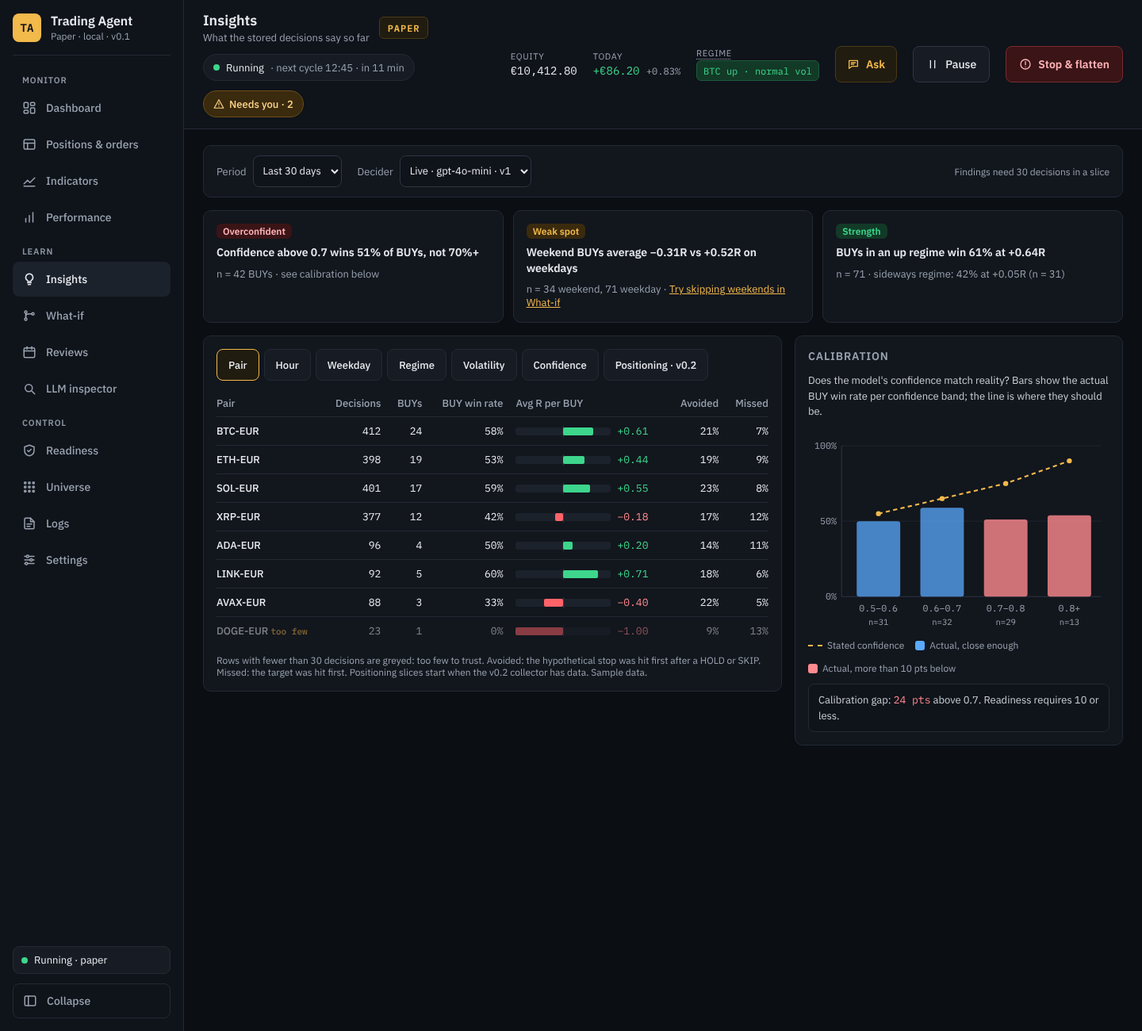
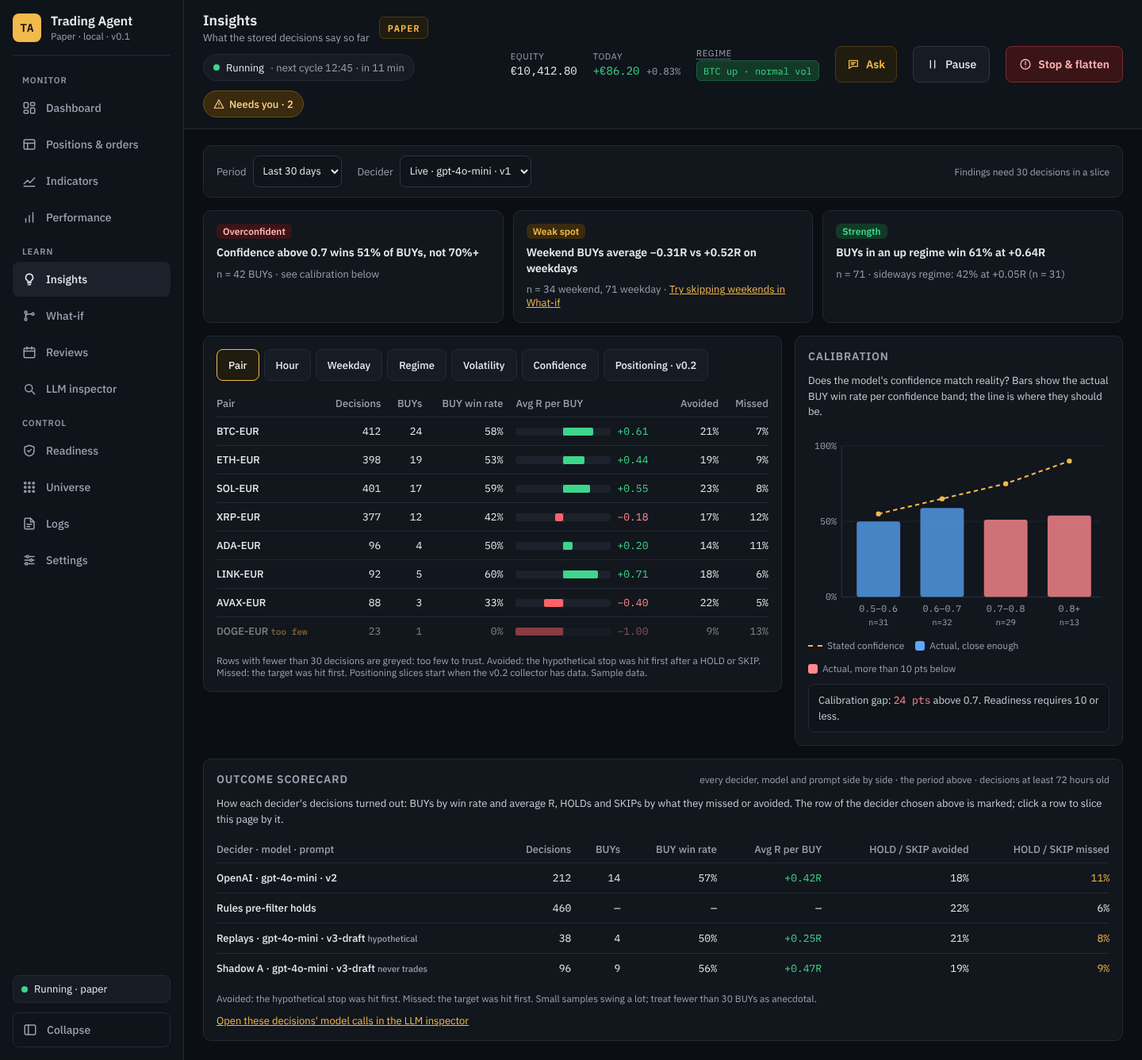
[043] Inspector follows Logs; scorecard to Insights
Marc's answers to the kickoff's two open questions (25 Nov). A call that
is an error on Logs needs him until its problem is reviewed, on both
screens. The outcome scorecard moves from the LLM inspector to Insights.

Claude-Session: https://claude.ai/code/session_01VNyDAExbeim9r1ewDQ9CMG

diff --git a/design/screens/Inspector.dc.html b/design/screens/Inspector.dc.html
@@ -149,18 +149,18 @@ summary{cursor:pointer}
   </div>
   <div style="display: flex; flex-direction: column">
     <div style="display: flex; justify-content: space-between; align-items: center; gap: 10px; flex-wrap: wrap; padding-bottom: 8px">
-      <span style="font-size: 12px; color: #98A2AF">Top reasons · most frequent first</span>
-      <span style="display: inline-flex; gap: 6px; align-items: center; flex-wrap: wrap; font-size: 12px; color: #98A2AF">Of 8 warnings and errors: <span style="display: inline-flex; align-items: center; height: 22px; padding: 0 7px; border-radius: 5px; background: #171C24; color: #C9CFD6; border: 1px solid #2E3643; font-size: 11px; font-weight: 500; white-space: nowrap">0 need you</span> <span style="display: inline-flex; align-items: center; height: 22px; padding: 0 7px; border-radius: 5px; background: #3A2A0E; color: #FFD58A; border: 1px solid #6B4E17; font-size: 11px; font-weight: 500; white-space: nowrap">2 to watch</span> <span style="display: inline-flex; align-items: center; height: 22px; padding: 0 7px; border-radius: 5px; background: #123A27; color: #3DD68C; border: 1px solid #1E5A3E; font-size: 11px; font-weight: 500; white-space: nowrap">6 nothing to do</span></span>
+      <span style="font-size: 12px; color: #98A2AF">Top reasons · what needs you first, then most frequent</span>
+      <span style="display: inline-flex; gap: 6px; align-items: center; flex-wrap: wrap; font-size: 12px; color: #98A2AF">Of 8 warnings and errors: <span style="display: inline-flex; align-items: center; height: 22px; padding: 0 7px; border-radius: 5px; background: #3A1416; color: #FFB3B6; border: 1px solid #7A2A2E; font-size: 11px; font-weight: 500; white-space: nowrap">2 need you</span> <span style="display: inline-flex; align-items: center; height: 22px; padding: 0 7px; border-radius: 5px; background: #171C24; color: #C9CFD6; border: 1px solid #2E3643; font-size: 11px; font-weight: 500; white-space: nowrap">0 to watch</span> <span style="display: inline-flex; align-items: center; height: 22px; padding: 0 7px; border-radius: 5px; background: #123A27; color: #3DD68C; border: 1px solid #1E5A3E; font-size: 11px; font-weight: 500; white-space: nowrap">6 nothing to do</span></span>
     </div>
+    <a href="#" class="ta-row" title="Show these calls" style="display: grid; grid-template-columns: 34px minmax(0, 1fr) auto; gap: 4px 10px; align-items: center; padding: 9px 6px; margin: 0 -6px; border-top: 1px solid #232A35; border-radius: 6px; color: #E7EAEE; text-decoration: none">
+  <span style="font-family: 'IBM Plex Mono', monospace; font-size: 13px; color: #C9CFD6">2 ×</span>
+  <span style="font-size: 13px; line-height: 1.45; min-width: 0"><b style="font-weight: 600">timeout</b> <span style="color: #98A2AF">· BTC-EUR and ETH-EUR at 09:30 and 09:15 · Rules answered both cycles</span></span>
+  <span title="An error on Logs that isn't reviewed yet. Review it there or in the call." style="display: inline-flex; align-items: center; height: 22px; padding: 0 7px; border-radius: 5px; background: #3A1416; color: #FFB3B6; border: 1px solid #7A2A2E; font-size: 11px; font-weight: 500; white-space: nowrap">Needs you</span>
+</a>
     <a href="#" class="ta-row" title="Show these calls" style="display: grid; grid-template-columns: 34px minmax(0, 1fr) auto; gap: 4px 10px; align-items: center; padding: 9px 6px; margin: 0 -6px; border-top: 1px solid #232A35; border-radius: 6px; color: #E7EAEE; text-decoration: none">
   <span style="font-family: 'IBM Plex Mono', monospace; font-size: 13px; color: #C9CFD6">3 ×</span>
   <span style="font-size: 13px; line-height: 1.45; min-width: 0"><b style="font-weight: 600">changed by code</b> <span style="color: #98A2AF">· gates and checks doing their job · cost gate 2, reward to risk 1</span></span>
   <span title="A gate or post-check changed the model's action. That is what they are for." style="display: inline-flex; align-items: center; height: 22px; padding: 0 7px; border-radius: 5px; background: #123A27; color: #3DD68C; border: 1px solid #1E5A3E; font-size: 11px; font-weight: 500; white-space: nowrap">Nothing to do</span>
-</a>
-    <a href="#" class="ta-row" title="Show these calls" style="display: grid; grid-template-columns: 34px minmax(0, 1fr) auto; gap: 4px 10px; align-items: center; padding: 9px 6px; margin: 0 -6px; border-top: 1px solid #232A35; border-radius: 6px; color: #E7EAEE; text-decoration: none">
-  <span style="font-family: 'IBM Plex Mono', monospace; font-size: 13px; color: #C9CFD6">2 ×</span>
-  <span style="font-size: 13px; line-height: 1.45; min-width: 0"><b style="font-weight: 600">timeout</b> <span style="color: #98A2AF">· BTC-EUR and ETH-EUR at 09:30 and 09:15 · Rules answered both cycles</span></span>
-  <span title="A second timeout within 2 cycles. A third cycle in a row would need you." style="display: inline-flex; align-items: center; height: 22px; padding: 0 7px; border-radius: 5px; background: #3A2A0E; color: #FFD58A; border: 1px solid #6B4E17; font-size: 11px; font-weight: 500; white-space: nowrap">Keep an eye on it</span>
 </a>
     <a href="#" class="ta-row" title="Show these calls" style="display: grid; grid-template-columns: 34px minmax(0, 1fr) auto; gap: 4px 10px; align-items: center; padding: 9px 6px; margin: 0 -6px; border-top: 1px solid #232A35; border-radius: 6px; color: #E7EAEE; text-decoration: none">
   <span style="font-family: 'IBM Plex Mono', monospace; font-size: 13px; color: #C9CFD6">1 ×</span>
@@ -179,75 +179,6 @@ summary{cursor:pointer}
 </a>
   </div>
 </section>
-<details style="background: #12161D; border: 1px solid #232A35; border-radius: 10px; padding: 16px 20px; box-sizing: border-box; min-width: 0; flex: 1 1 100%; padding: 0">
-  <summary style="display: flex; flex-wrap: wrap; align-items: center; gap: 6px 12px; min-height: 48px; padding: 6px 20px; box-sizing: border-box">
-    <span style="margin: 0; font-size: 13px; font-weight: 600; letter-spacing: 0.06em; text-transform: uppercase; color: #C9CFD6">Outcome scorecard</span>
-    <span style="font-size: 13px; color: #C9CFD6">7 days · OpenAI gpt-4o-mini v2: 14 BUYs, 57% won, <span style="font-family: 'IBM Plex Mono', monospace; color: #3DD68C">+0.42R</span> each · Shadow A <span style="font-family: 'IBM Plex Mono', monospace; color: #3DD68C">+0.47R</span></span>
-    <span style="margin-left: auto; font-size: 13px; color: #F2B94B">Show the table</span>
-  </summary>
-  <div style="padding: 0 20px 16px; display: flex; flex-direction: column; gap: 10px">
-    <div role="group" aria-label="Scorecard period" style="display: inline-flex; align-self: flex-start; padding: 3px; background: #171C24; border: 1px solid #232A35; border-radius: 8px">
-      <button type="button" aria-pressed="false" style="height: 32px; padding: 0 12px; border: 0; border-radius: 6px; background: transparent; color: #98A2AF; font-size: 13px; cursor: pointer">24h</button>
-      <button type="button" aria-pressed="true" style="height: 32px; padding: 0 12px; border: 0; border-radius: 6px; background: #2E3643; color: #E7EAEE; font-size: 13px; cursor: pointer">7 days</button>
-      <button type="button" aria-pressed="false" style="height: 32px; padding: 0 12px; border: 0; border-radius: 6px; background: transparent; color: #98A2AF; font-size: 13px; cursor: pointer">30 days</button>
-    </div>
-    <div style="overflow-x: auto">
-        <div style="overflow-x: auto; max-width: 100%; min-width: 0"><table style="width: 100%; min-width: 760px; border-collapse: collapse; font-size: 13px">
-          <thead>
-            <tr style="color: #98A2AF; text-align: left">
-              <th style="padding: 8px 8px 8px 0; font-weight: 500">Decider · model · prompt</th>
-              <th style="padding: 8px; font-weight: 500; text-align: right">Decisions</th>
-              <th style="padding: 8px; font-weight: 500; text-align: right">BUYs</th>
-              <th style="padding: 8px; font-weight: 500; text-align: right">BUY win rate</th>
-              <th style="padding: 8px; font-weight: 500; text-align: right">Avg R per BUY</th>
-              <th style="padding: 8px; font-weight: 500; text-align: right">HOLD / SKIP avoided</th>
-              <th style="padding: 8px 0 8px 8px; font-weight: 500; text-align: right">HOLD / SKIP missed</th>
-            </tr>
-          </thead>
-          <tbody style="font-family: 'IBM Plex Mono', monospace">
-            <tr style="border-top: 1px solid #232A35">
-              <td style="padding: 10px 8px 10px 0; font-family: 'IBM Plex Sans', sans-serif; font-weight: 500">OpenAI · gpt-4o-mini · v2</td>
-              <td style="padding: 10px 8px; text-align: right">212</td>
-              <td style="padding: 10px 8px; text-align: right">14</td>
-              <td style="padding: 10px 8px; text-align: right">57%</td>
-              <td style="padding: 10px 8px; text-align: right; color: #3DD68C">+0.42R</td>
-              <td style="padding: 10px 8px; text-align: right">18%</td>
-              <td style="padding: 10px 0 10px 8px; text-align: right; color: #F2B94B">11%</td>
-            </tr>
-            <tr style="border-top: 1px solid #232A35">
-              <td style="padding: 10px 8px 10px 0; font-family: 'IBM Plex Sans', sans-serif; font-weight: 500">Rules pre-filter holds</td>
-              <td style="padding: 10px 8px; text-align: right">460</td>
-              <td style="padding: 10px 8px; text-align: right">—</td>
-              <td style="padding: 10px 8px; text-align: right">—</td>
-              <td style="padding: 10px 8px; text-align: right">—</td>
-              <td style="padding: 10px 8px; text-align: right">22%</td>
-              <td style="padding: 10px 0 10px 8px; text-align: right">6%</td>
-            </tr>
-            <tr style="border-top: 1px solid #232A35">
-              <td style="padding: 10px 8px 10px 0; font-family: 'IBM Plex Sans', sans-serif; font-weight: 500">Replays · gpt-4o-mini · v3-draft <span style="font-size: 11px; color: #98A2AF">hypothetical</span></td>
-              <td style="padding: 10px 8px; text-align: right">38</td>
-              <td style="padding: 10px 8px; text-align: right">4</td>
-              <td style="padding: 10px 8px; text-align: right">50%</td>
-              <td style="padding: 10px 8px; text-align: right; color: #3DD68C">+0.25R</td>
-              <td style="padding: 10px 8px; text-align: right">21%</td>
-              <td style="padding: 10px 0 10px 8px; text-align: right; color: #F2B94B">8%</td>
-            </tr>
-            <tr style="border-top: 1px solid #232A35">
-              <td style="padding: 10px 8px 10px 0; font-family: 'IBM Plex Sans', sans-serif; font-weight: 500">Shadow A · gpt-4o-mini · v3-draft <span style="font-size: 11px; color: #98A2AF">never trades</span></td>
-              <td style="padding: 10px 8px; text-align: right">96</td>
-              <td style="padding: 10px 8px; text-align: right">9</td>
-              <td style="padding: 10px 8px; text-align: right">56%</td>
-              <td style="padding: 10px 8px; text-align: right; color: #3DD68C">+0.47R</td>
-              <td style="padding: 10px 8px; text-align: right">19%</td>
-              <td style="padding: 10px 0 10px 8px; text-align: right; color: #F2B94B">9%</td>
-            </tr>
-          </tbody>
-        </table></div>
-      </div>
-      <p style="margin: 0; font-size: 12px; color: #98A2AF">Avoided: the hypothetical stop was hit first. Missed: the target was hit first. Small samples swing a lot; treat fewer than 30 BUYs as anecdotal.</p>
-    
-  </div>
-</details>
 <section aria-label="Calls" style="background: #12161D; border: 1px solid #232A35; border-radius: 10px; padding: 16px 20px; box-sizing: border-box; min-width: 0; padding: 0; flex: 1 1 340px; max-width: 420px; display: flex; flex-direction: column; overflow: hidden" class="in-list">
   <div style="display: flex; justify-content: space-between; align-items: center; gap: 10px; padding: 12px 12px 10px"><h2 style="margin: 0; font-size: 13px; font-weight: 600; letter-spacing: 0.06em; text-transform: uppercase; color: #C9CFD6">Calls</h2><button type="button" title="Switch to oldest first" style="height: 36px; padding: 0 12px; display: inline-flex; align-items: center; justify-content: center; gap: 6px; border-radius: 6px; border: 1px solid #2E3643; background: #171C24; color: #E7EAEE; font-size: 13px; font-weight: 500; text-decoration: none; white-space: nowrap; cursor: pointer; height: 28px; padding: 0 8px; font-size: 12px; color: #98A2AF">newest first ↓</button></div>
   <div style="position: sticky; top: 0; display: flex; justify-content: space-between; gap: 10px; padding: 8px 12px; background: #171C24; border-bottom: 1px solid #232A35; font-size: 11px"><span style="font-weight: 600; letter-spacing: 0.06em; text-transform: uppercase; color: #C9CFD6">Tue 13 Oct · today</span><span style="color: #98A2AF">22 calls · 4 warnings · 2 errors</span></div>
@@ -367,7 +298,7 @@ summary{cursor:pointer}
   </div>
   <div style="flex: 1 1 260px; min-width: 0; display: flex; flex-direction: column; gap: 8px">
     <h2 style="margin: 0; font-size: 13px; font-weight: 600; letter-spacing: 0.06em; text-transform: uppercase; color: #C9CFD6">Outcome <span style="font-weight: 400; text-transform: none; letter-spacing: 0; color: #98A2AF">· judges the result</span></h2>
-    <div style="font-size: 13px; line-height: 1.6"><span style="font-family: 'IBM Plex Mono', monospace">4h · 24h · 72h</span> pending until Fri 16 Oct 12:30<br><span style="color: #98A2AF">so far best</span> <span style="font-family: 'IBM Plex Mono', monospace; color: #3DD68C">+0.6R</span><span style="color: #98A2AF">, worst</span> <span style="font-family: 'IBM Plex Mono', monospace; color: #FF8A8F">−0.1R</span></div>
+    <div style="font-size: 13px; line-height: 1.6"><span style="font-family: 'IBM Plex Mono', monospace">4h · 24h · 72h</span> pending until Fri 16 Oct 12:30<br><span style="color: #98A2AF">so far best</span> <span style="font-family: 'IBM Plex Mono', monospace; color: #3DD68C">+0.6R</span><span style="color: #98A2AF">, worst</span> <span style="font-family: 'IBM Plex Mono', monospace; color: #FF8A8F">−0.1R</span><br><a href="Insights.dc.html" style="color: #F2B94B">Scorecard per model and prompt on Insights</a></div>
   </div>
 </section>
 <section aria-label="Input" style="background: #12161D; border: 1px solid #232A35; border-radius: 10px; padding: 16px 20px; box-sizing: border-box; min-width: 0; display: flex; flex-direction: column; gap: 10px">
@@ -412,9 +343,9 @@ summary{cursor:pointer}
     <span style="flex: 1 1 100%; font-size: 13px; color: #FFD9DB">Nothing was traded on a guess. The pair was decided by the Rules engine for this cycle.</span>
   </div>
   <div style="border: 1px solid #232A35; border-left: 3px solid #FF6B70; border-radius: 8px; padding: 12px 14px; display: flex; flex-direction: column; gap: 10px; background: #0F131A">
-  <div style="display: flex; justify-content: space-between; align-items: center; gap: 10px; flex-wrap: wrap"><span style="font-size: 14px; font-weight: 600">What happened · Timeout <span style="font-family: 'IBM Plex Mono', monospace; font-size: 11px; font-weight: 400; color: #98A2AF">timeout</span></span><span title="A second timeout within 2 cycles (ETH-EUR 09:15). A third cycle in a row would need you." style="display: inline-flex; align-items: center; height: 22px; padding: 0 7px; border-radius: 5px; background: #3A2A0E; color: #FFD58A; border: 1px solid #6B4E17; font-size: 11px; font-weight: 500; white-space: nowrap">Keep an eye on it</span></div>
-  <div class="in-kv" style="display: grid; grid-template-columns: 110px minmax(0, 1fr); gap: 8px 14px"><span style="font-size: 12px; color: #98A2AF">What it means</span><span style="font-size: 13px; line-height: 1.5">OpenAI gave no answer within the timeout, and the one retry timed out too. The Rules engine decided this pair for the cycle.</span><span style="font-size: 12px; color: #98A2AF">Why here</span><span style="font-size: 13px; line-height: 1.5">Attempt 1 timed out after 30 s at 09:30:31, the retry at 09:31:01. ETH-EUR timed out the cycle before.</span><span style="font-size: 12px; color: #98A2AF">What to do</span><span style="font-size: 13px; line-height: 1.5">Once in a while: nothing. Now: check status.openai.com. If the next cycle fails too, this becomes Needs you; Logs shows whether the network or the provider fails.</span></div>
-  <div style="display: flex; flex-wrap: wrap; gap: 8px"><a href="Logs.dc.html" style="height: 36px; padding: 0 12px; display: inline-flex; align-items: center; justify-content: center; gap: 6px; border-radius: 6px; border: 1px solid #2E3643; background: #171C24; color: #E7EAEE; font-size: 13px; font-weight: 500; text-decoration: none; white-space: nowrap; cursor: pointer">Logs for this call · e-3f9a21c0</a><a href="#" style="height: 36px; padding: 0 12px; display: inline-flex; align-items: center; justify-content: center; gap: 6px; border-radius: 6px; border: 1px solid #2E3643; background: #171C24; color: #E7EAEE; font-size: 13px; font-weight: 500; text-decoration: none; white-space: nowrap; cursor: pointer">Calls with this reason</a><a href="#" style="height: 36px; padding: 0 12px; display: inline-flex; align-items: center; justify-content: center; gap: 6px; border-radius: 6px; border: 1px solid #2E3643; background: #171C24; color: #E7EAEE; font-size: 13px; font-weight: 500; text-decoration: none; white-space: nowrap; cursor: pointer">status.openai.com</a></div>
+  <div style="display: flex; justify-content: space-between; align-items: center; gap: 10px; flex-wrap: wrap"><span style="font-size: 14px; font-weight: 600">What happened · Timeout <span style="font-family: 'IBM Plex Mono', monospace; font-size: 11px; font-weight: 400; color: #98A2AF">timeout</span></span><span title="An error on Logs that isn't reviewed yet: “Decision call timed out after its retry”, 2 times." style="display: inline-flex; align-items: center; height: 22px; padding: 0 7px; border-radius: 5px; background: #3A1416; color: #FFB3B6; border: 1px solid #7A2A2E; font-size: 11px; font-weight: 500; white-space: nowrap">Needs you</span></div>
+  <div class="in-kv" style="display: grid; grid-template-columns: 110px minmax(0, 1fr); gap: 8px 14px"><span style="font-size: 12px; color: #98A2AF">What it means</span><span style="font-size: 13px; line-height: 1.5">OpenAI gave no answer within the timeout, and the one retry timed out too. The Rules engine decided this pair for the cycle.</span><span style="font-size: 12px; color: #98A2AF">Why here</span><span style="font-size: 13px; line-height: 1.5">Attempt 1 timed out after 30 s at 09:30:31, the retry at 09:31:01. ETH-EUR timed out the cycle before.</span><span style="font-size: 12px; color: #98A2AF">What to do</span><span style="font-size: 13px; line-height: 1.5">Check status.openai.com; Logs shows whether the network or the provider failed. Then review the problem: Expected or Fixed, with a note. That clears it here, on Logs and in Needs you.</span></div>
+  <div style="display: flex; flex-wrap: wrap; gap: 8px"><a href="#" style="height: 36px; padding: 0 12px; display: inline-flex; align-items: center; justify-content: center; gap: 6px; border-radius: 6px; border: 1px solid #2E3643; background: #171C24; color: #E7EAEE; font-size: 13px; font-weight: 500; text-decoration: none; white-space: nowrap; cursor: pointer">Review…</a><a href="Logs.dc.html" style="height: 36px; padding: 0 12px; display: inline-flex; align-items: center; justify-content: center; gap: 6px; border-radius: 6px; border: 1px solid #2E3643; background: #171C24; color: #E7EAEE; font-size: 13px; font-weight: 500; text-decoration: none; white-space: nowrap; cursor: pointer">Logs for this call · e-3f9a21c0</a><a href="#" style="height: 36px; padding: 0 12px; display: inline-flex; align-items: center; justify-content: center; gap: 6px; border-radius: 6px; border: 1px solid #2E3643; background: #171C24; color: #E7EAEE; font-size: 13px; font-weight: 500; text-decoration: none; white-space: nowrap; cursor: pointer">Calls with this reason</a><a href="#" style="height: 36px; padding: 0 12px; display: inline-flex; align-items: center; justify-content: center; gap: 6px; border-radius: 6px; border: 1px solid #2E3643; background: #171C24; color: #E7EAEE; font-size: 13px; font-weight: 500; text-decoration: none; white-space: nowrap; cursor: pointer">status.openai.com</a></div>
 </div>
   <div class="in-tiles" style="display: flex; flex-wrap: wrap; gap: 8px">
     <div style="flex: 1 1 130px; min-width: 0; display: flex; flex-direction: column; gap: 3px; padding: 10px 12px; background: #0F131A; border: 1px solid #232A35; border-radius: 8px"><span style="font-size: 11px; color: #98A2AF">Source</span><span style="font-family: 'IBM Plex Mono', monospace; font-size: 13px; overflow-wrap: anywhere">Live decision</span></div><div style="flex: 1 1 130px; min-width: 0; display: flex; flex-direction: column; gap: 3px; padding: 10px 12px; background: #0F131A; border: 1px solid #232A35; border-radius: 8px"><span style="font-size: 11px; color: #98A2AF">Model</span><span style="font-family: 'IBM Plex Mono', monospace; font-size: 13px; overflow-wrap: anywhere">gpt-4o-mini</span><span style="font-family: 'IBM Plex Mono', monospace; font-size: 11px; color: #98A2AF">structured output</span></div><div style="flex: 1 1 130px; min-width: 0; display: flex; flex-direction: column; gap: 3px; padding: 10px 12px; background: #0F131A; border: 1px solid #232A35; border-radius: 8px"><span style="font-size: 11px; color: #98A2AF">Prompt</span><span style="font-family: 'IBM Plex Mono', monospace; font-size: 13px; overflow-wrap: anywhere">decision.v2</span><span style="font-family: 'IBM Plex Mono', monospace; font-size: 11px; color: #98A2AF">brief v2</span></div><div style="flex: 1 1 130px; min-width: 0; display: flex; flex-direction: column; gap: 3px; padding: 10px 12px; background: #0F131A; border: 1px solid #232A35; border-radius: 8px"><span style="font-size: 11px; color: #98A2AF">Tokens in / out</span><span style="font-family: 'IBM Plex Mono', monospace; font-size: 13px; overflow-wrap: anywhere">not recorded</span><span style="font-family: 'IBM Plex Mono', monospace; font-size: 11px; color: #98A2AF">no response</span></div><div style="flex: 1 1 130px; min-width: 0; display: flex; flex-direction: column; gap: 3px; padding: 10px 12px; background: #0F131A; border: 1px solid #232A35; border-radius: 8px"><span style="font-size: 11px; color: #98A2AF">Cost</span><span style="font-family: 'IBM Plex Mono', monospace; font-size: 13px; overflow-wrap: anywhere">€0.0000</span><span style="font-family: 'IBM Plex Mono', monospace; font-size: 11px; color: #98A2AF">nothing billed</span></div><div style="flex: 1 1 130px; min-width: 0; display: flex; flex-direction: column; gap: 3px; padding: 10px 12px; background: #0F131A; border: 1px solid #232A35; border-radius: 8px"><span style="font-size: 11px; color: #98A2AF">Latency</span><span style="font-family: 'IBM Plex Mono', monospace; font-size: 13px; overflow-wrap: anywhere">60.0 s</span><span style="font-family: 'IBM Plex Mono', monospace; font-size: 11px; color: #98A2AF">2 attempts</span></div><div style="flex: 1 1 130px; min-width: 0; display: flex; flex-direction: column; gap: 3px; padding: 10px 12px; background: #0F131A; border: 1px solid #232A35; border-radius: 8px"><span style="font-size: 11px; color: #98A2AF">Sent</span><span style="font-family: 'IBM Plex Mono', monospace; font-size: 13px; overflow-wrap: anywhere">09:30:01</span><span style="font-family: 'IBM Plex Mono', monospace; font-size: 11px; color: #98A2AF">request id not recorded</span></div>

diff --git a/design/screens/Insights.dc.html b/design/screens/Insights.dc.html
@@ -192,6 +192,66 @@ table{border-collapse:collapse}
           <div style="padding: 10px 12px; background: #0F131A; border: 1px solid #232A35; border-radius: 8px; font-size: 13px; color: #C9CFD6; line-height: 1.5">Calibration gap: <span style="font-family: 'IBM Plex Mono', monospace; color: #FF8A8F">24 pts</span> above 0.7. Readiness requires 10 or less.</div>
         </section>
       </div>
+      <section aria-label="Outcome scorecard" style="flex: 1 1 100%; min-width: 0; background: #12161D; border: 1px solid #232A35; border-radius: 10px; padding: 16px; display: flex; flex-direction: column; gap: 12px">
+        <div style="display: flex; flex-wrap: wrap; justify-content: space-between; align-items: baseline; gap: 8px 16px"><h2 style="margin: 0; font-size: 14px; font-weight: 600; color: #98A2AF; text-transform: uppercase; letter-spacing: 0.06em">Outcome scorecard</h2><span style="font-size: 12px; color: #98A2AF">every decider, model and prompt side by side · the period above · decisions at least 72 hours old</span></div>
+        <p style="margin: 0; font-size: 13px; color: #C9CFD6; line-height: 1.5">How each decider's decisions turned out: BUYs by win rate and average R, HOLDs and SKIPs by what they missed or avoided. The row of the decider chosen above is marked; click a row to slice this page by it.</p>
+        <div style="overflow-x: auto">
+        <div style="overflow-x: auto; max-width: 100%; min-width: 0"><table style="width: 100%; min-width: 760px; border-collapse: collapse; font-size: 13px">
+          <thead>
+            <tr style="color: #98A2AF; text-align: left">
+              <th style="padding: 8px 8px 8px 0; font-weight: 500">Decider · model · prompt</th>
+              <th style="padding: 8px; font-weight: 500; text-align: right">Decisions</th>
+              <th style="padding: 8px; font-weight: 500; text-align: right">BUYs</th>
+              <th style="padding: 8px; font-weight: 500; text-align: right">BUY win rate</th>
+              <th style="padding: 8px; font-weight: 500; text-align: right">Avg R per BUY</th>
+              <th style="padding: 8px; font-weight: 500; text-align: right">HOLD / SKIP avoided</th>
+              <th style="padding: 8px 0 8px 8px; font-weight: 500; text-align: right">HOLD / SKIP missed</th>
+            </tr>
+          </thead>
+          <tbody style="font-family: 'IBM Plex Mono', monospace">
+            <tr style="border-top: 1px solid #232A35">
+              <td style="padding: 10px 8px 10px 0; font-family: 'IBM Plex Sans', sans-serif; font-weight: 500">OpenAI · gpt-4o-mini · v2</td>
+              <td style="padding: 10px 8px; text-align: right">212</td>
+              <td style="padding: 10px 8px; text-align: right">14</td>
+              <td style="padding: 10px 8px; text-align: right">57%</td>
+              <td style="padding: 10px 8px; text-align: right; color: #3DD68C">+0.42R</td>
+              <td style="padding: 10px 8px; text-align: right">18%</td>
+              <td style="padding: 10px 0 10px 8px; text-align: right; color: #F2B94B">11%</td>
+            </tr>
+            <tr style="border-top: 1px solid #232A35">
+              <td style="padding: 10px 8px 10px 0; font-family: 'IBM Plex Sans', sans-serif; font-weight: 500">Rules pre-filter holds</td>
+              <td style="padding: 10px 8px; text-align: right">460</td>
+              <td style="padding: 10px 8px; text-align: right">—</td>
+              <td style="padding: 10px 8px; text-align: right">—</td>
+              <td style="padding: 10px 8px; text-align: right">—</td>
+              <td style="padding: 10px 8px; text-align: right">22%</td>
+              <td style="padding: 10px 0 10px 8px; text-align: right">6%</td>
+            </tr>
+            <tr style="border-top: 1px solid #232A35">
+              <td style="padding: 10px 8px 10px 0; font-family: 'IBM Plex Sans', sans-serif; font-weight: 500">Replays · gpt-4o-mini · v3-draft <span style="font-size: 11px; color: #98A2AF">hypothetical</span></td>
+              <td style="padding: 10px 8px; text-align: right">38</td>
+              <td style="padding: 10px 8px; text-align: right">4</td>
+              <td style="padding: 10px 8px; text-align: right">50%</td>
+              <td style="padding: 10px 8px; text-align: right; color: #3DD68C">+0.25R</td>
+              <td style="padding: 10px 8px; text-align: right">21%</td>
+              <td style="padding: 10px 0 10px 8px; text-align: right; color: #F2B94B">8%</td>
+            </tr>
+            <tr style="border-top: 1px solid #232A35">
+              <td style="padding: 10px 8px 10px 0; font-family: 'IBM Plex Sans', sans-serif; font-weight: 500">Shadow A · gpt-4o-mini · v3-draft <span style="font-size: 11px; color: #98A2AF">never trades</span></td>
+              <td style="padding: 10px 8px; text-align: right">96</td>
+              <td style="padding: 10px 8px; text-align: right">9</td>
+              <td style="padding: 10px 8px; text-align: right">56%</td>
+              <td style="padding: 10px 8px; text-align: right; color: #3DD68C">+0.47R</td>
+              <td style="padding: 10px 8px; text-align: right">19%</td>
+              <td style="padding: 10px 0 10px 8px; text-align: right; color: #F2B94B">9%</td>
+            </tr>
+          </tbody>
+        </table></div>
+      </div>
+      <p style="margin: 0; font-size: 12px; color: #98A2AF">Avoided: the hypothetical stop was hit first. Missed: the target was hit first. Small samples swing a lot; treat fewer than 30 BUYs as anecdotal.</p>
+    
+        <a href="Inspector.dc.html" style="align-self: flex-start; font-size: 13px; color: #F2B94B">Open these decisions' model calls in the LLM inspector</a>
+      </section>
     </main>
   </div>
 </div>

diff --git a/docs/SPEC.md b/docs/SPEC.md
@@ -595,7 +595,7 @@ For each decision, at 4h, 24h and 72h after it:
 **Where it shows**
 
 - Decision drawer and LLM inspector: the outcome next to the decision, or "pending until" with the time. Your verdict judges the reasoning; the outcome judges the result; both are shown side by side.
-- LLM inspector: filter by outcome label, and a scorecard per decider, model and prompt version: number of decisions, BUY win rate, average R, and missed versus avoided for HOLD and SKIP.
+- LLM inspector: filter by outcome label, and a scorecard per decider, model and prompt version: number of decisions, BUY win rate, average R, and missed versus avoided for HOLD and SKIP. From item 043 the scorecard is on Insights.
 - Exports: outcomes are included in the JSONL and CSV exports, next to the brief, so the data can later train or test a model.
 
 ## Data model and API
@@ -1282,7 +1282,7 @@ Top to bottom: the check line, the tiles, Data sync and Today's check, the marke
 
 ### LLM inspector, easier to read
 
-Decided 25 Nov (item 043), after Stock Trading Agent's inspector (its `docs/SPEC.md` → LLM call history, items 018 and 074). The v0.1 inspector (GUI screens → LLM inspector) answers "what was the model fed, and was its answer right?" for one call. This section adds the questions before that one: which calls need a look, what went wrong and whether Marc has to do anything. Nothing the inspector can do is removed: Re-run, verdicts, the labelled export, Open in Indicators, Download JSON, the input and output checks, attempts, replays, skipped cycles and the scorecard all stay. What stored records hold doesn't change, apart from three new columns.
+Decided 25 Nov (item 043), after Stock Trading Agent's inspector (its `docs/SPEC.md` → LLM call history, items 018 and 074). The v0.1 inspector (GUI screens → LLM inspector) answers "what was the model fed, and was its answer right?" for one call. This section adds the questions before that one: which calls need a look, what went wrong and whether Marc has to do anything. Nothing the inspector can do is removed: Re-run, verdicts, the labelled export, Open in Indicators, Download JSON, the input and output checks, attempts, replays and skipped cycles all stay; the scorecard moves to Insights (below). What stored records hold doesn't change, apart from three new columns.
 
 Two words are kept apart on this screen. A call's **status** is success, warning or error (below). A decision's **outcome** stays what Outcome tracking defines: its result after 4, 24 and 72 hours.
 
@@ -1307,18 +1307,20 @@ The Rules baseline disagreeing with the model is information, not a warning. A s
 | `retried` | The first attempt failed and the one retry answered | A short failure at the provider or on the network | Nothing. Many in a day: look at the timeouts and errors of the same period |
 | `slow` | The answer took longer than 15 s but arrived | The provider was busy, or the answer was long | Calls near the 30 s timeout risk failing. If they repeat, pick a faster model |
 | `number_check_failed` | A briefing, review or Ask answer contained a number that isn't in its facts. The plain template (or "no answer") was shown instead | The model rounded differently, computed a new number or invented one | Once: nothing. Often: try another model for that text. The facts and the text are both in this call |
-| `timeout` | No answer within `timeouts.openai_s` (30 s), and the retry timed out too. The Rules engine decided the pair for this cycle; nothing was traded on a guess | The provider was overloaded or the network failed | Once: nothing. Several cycles in a row: check the provider's status page; Logs shows whether the network or the provider fails |
-| `api_error` | The provider answered with an HTTP error, or the connection failed, also on the retry | 401 or 403: the key is wrong, expired or lacks access. 404: the model name is unknown. 429: rate limit or spending limit. 500–599: the provider's own failure. No status: network or DNS | 401/403: replace the key in Settings → API keys and data. 404: pick a listed model. 429: raise the account's limits. 5xx: wait; check the status page. No status: check the computer's network |
+| `timeout` | No answer within `timeouts.openai_s` (30 s), and the retry timed out too. The Rules engine decided the pair for this cycle; nothing was traded on a guess | The provider was overloaded or the network failed | Check the provider's status page; Logs shows whether the network or the provider failed. Then review the problem: Expected or Fixed, with a note. That clears it here, on Logs and in Needs you |
+| `api_error` | The provider answered with an HTTP error, or the connection failed, also on the retry | 401 or 403: the key is wrong, expired or lacks access. 404: the model name is unknown. 429: rate limit or spending limit. 500–599: the provider's own failure. No status: network or DNS | 401/403: replace the key in Settings → API keys and data. 404: pick a listed model. 429: raise the account's limits. 5xx: wait; check the status page. No status: check the computer's network. Then review the problem, as for a timeout |
 | `invalid_output` | The answer couldn't be used: not JSON or not the schema, also on the retry. Counted as HOLD | The model ignored the format, or its answer was cut off | Once: nothing. Often for one model: it doesn't follow the schema; pick another |
 | `input_blocked` | An input check failed, so the brief was not sent and the cycle held this pair. The request that would have been sent is stored | Missing or out-of-range fields, stale candles, too little history, or another pair's prices in the brief | Open the failed input check. Stale or missing candles: Universe → Data sync shows what loaded. A cross-pair leak is a bug: report it with the call link |
 
-**Does it need me?** Every warning and error carries one of three levels, set by code when the call is stored (looking back only, so it never changes afterwards) and stored as `attention`. The thresholds are settings under `inspector.attention` (hard rule 3); the numbers here are the defaults.
+**Does it need me?** Every warning and error carries one of three levels, stored as `attention` and shown the same way as on Logs → Recurring problems. Decided 25 Nov (Marc): the inspector follows Logs, so one failure never needs him on one screen and not on the other.
 
-- **Needs you** (`act`): `api_error` 401, 403 or 404; three or more 429s in 24 hours; a timeout or 5xx in 3 cycles in a row; `input_blocked` for the same pair, or `input_warning` for the same field, in 3 cycles in a row; `invalid_output` on 3 or more of a model's last 20 calls; `number_check_failed` on 3 of the last 5 texts of one kind.
-- **Keep an eye on it** (`watch`): a second timeout or provider error within 2 cycles; 3 or more `slow` calls in 24 hours; `claim_mismatch` or one `check_warning` check on 20% or more of the last 20 decision calls.
-- **Nothing to do** (`none`): everything else, which includes every `changed_by_code` and `retried`.
+- **A call whose failure is an ERROR or CRITICAL line on Logs follows that line's recurring problem.** It is **needs you** (`act`) while the problem has no review, from the first time, and **nothing to do** (`none`) once the problem is reviewed as expected or fixed. Reviewing sets every stored call of that problem to `none`; calls that come after an "expected" review are stored as `none`; a problem that returns after "fixed" is unreviewed again, so its new calls are `act`. Today that covers `timeout` and `api_error` (`model.call_failed`). What happened has a "Review…" button that opens the Logs review dialog (Expected or Fixed, and a required note), so it can be done from either screen.
+- **Every other reason** is decided by code when the call is stored, looking back only, from settings under `inspector.attention` (hard rule 3; the numbers are the defaults):
+  - **Needs you** (`act`): `input_blocked` for the same pair, or `input_warning` for the same field, in 3 cycles in a row; `invalid_output` on 3 or more of a model's last 20 calls; `number_check_failed` on 3 of the last 5 texts of one kind.
+  - **Keep an eye on it** (`watch`): 3 or more `slow` calls in 24 hours; `claim_mismatch` or one `check_warning` check on 20% or more of the last 20 decision calls.
+  - **Nothing to do** (`none`): everything else, which includes every `changed_by_code` and `retried`.
 
-The level shows as a chip in What happened (its reason on hover) and on each Top reasons row; the summary counts them; `attention=` is a filter. Each `act` group (one per reason and model, pair or field) is an item in the Needs you list, linking to the filtered inspector, and leaves the list once a later call of that group succeeds.
+The level shows as a chip in What happened (its reason on hover) and on each Top reasons row; the summary counts them; `attention=` is a filter. Calls that follow a Logs problem are covered by the Needs you item "Errors not reviewed" and get no second item. Each other `act` group (one per reason and model, pair or field) is its own Needs you item, linking to the filtered inspector, and leaves the list once a later call of that group succeeds.
 
 **Filters.** Every filter is in the URL (`?period=&from=&to=&status=&source=&pair=&action=&reason=&model=&prompt=&verdict=&outcome=&attention=&cycle=&skipped=&call=`), so links land on the right calls: the Dashboard's model-calls tile opens the last 24 hours of live decisions; the Decision drawer's "Open model call" and Copy link open `?call=`; a Logs line of a model call opens `?call=`.
 
@@ -1336,9 +1338,9 @@ Every option shows its count under the other filters. Clear filters returns to t
 - Calls (and how many cycles had none), success, warning and error with their share.
 - Cost in euros, split by source. Latency median and p95 over the calls that answered.
 - A stacked bar per hour for 24 hours, per day up to 30 days, per week beyond. Clicking a bar sets the period to it.
-- **Top reasons:** the reasons in the set with their counts, most frequent first, each with one line from the calls themselves ("2 × timeout · BTC-EUR and ETH-EUR at 09:30 and 09:15 · Rules answered both cycles"), its level chip, and a click that filters on it. Above it: "Of 8 warnings and errors: 0 need you · 2 to watch · 6 nothing to do". With none: "No warnings or errors in this period."
+- **Top reasons:** the reasons in the set with their counts, those that need Marc first, then most frequent, each with one line from the calls themselves ("2 × timeout · BTC-EUR and ETH-EUR at 09:30 and 09:15 · Rules answered both cycles"), its level chip, and a click that filters on it. Above it: "Of 8 warnings and errors: 2 need you · 0 to watch · 6 nothing to do". With none: "No warnings or errors in this period."
 
-**Outcome scorecard.** Unchanged in content and with its own period (24 hours, 7 days, 30 days), but folded to one line under the summary that states the live decider's BUYs, win rate and average R; "Show the table" opens it. The choice is remembered per browser.
+**Outcome scorecard.** Moved to Insights (decided 25 Nov, Marc): it says how well each decider does, not how to debug a call. On Insights it is a full-width card at the bottom, unchanged in content, following that screen's period filter and showing every decider, model and prompt side by side with the row of the chosen decider marked; a click on a row sets the Decider filter. It links to the inspector, and the inspector's outcome block links back ("Scorecard per model and prompt on Insights").
 
 **List.** Newest first, with a switch to oldest first, grouped per Amsterdam day under a sticky header (calls, warnings, errors). New calls arrive live on top while the period includes now. A row shows the cycle time, the pair (or Briefing, Review, Ask), the model's action and the final one when they differ ("BUY → SKIP"), the context and model in one muted line, a status chip that names the reason, and under it Marc's verdict or the outcome label when there is one. Rows of one day with the same pair or kind, action, status and reasons that follow each other fold into one ("LINK-EUR ×3 · HOLD") that opens in place; warnings with different details and errors never fold. A cycle without a call is a dashed row. Pages of `inspector.page_size` (50) use a keyset cursor on (sent at, id), with "n of total loaded" and "Load more". At 900 px and wider the list stays in view while the details scroll.
 
@@ -1357,7 +1359,7 @@ At phone width the details open under the list; Newer and Older replace going ba
 
 **Exports.** "Export CSV": one row per filtered call (time, source, pair, action, final action, status, reasons, attention, model, prompt, tokens, cost, latency, verdict, outcome); no prompts or responses. "Export labelled calls" stays the JSONL of calls with a verdict.
 
-**Storage.** `llm_calls` gains `outcome_status` (success, warning, error), `reasons` (JSON list of {code, detail}) and `attention` (none, watch, act), written with the call. A new migration backfills them for existing rows from the stored status, checks, attempts and the decision's final action; backfilled rows get attention `none`. Indexes on (account, at, id), (outcome_status, at) and (feature, at).
+**Storage.** `llm_calls` gains `outcome_status` (success, warning, error), `reasons` (JSON list of {code, detail}), `attention` (none, watch, act) and `problem_key` (the recurring problem of its error line, when it has one), written with the call; a review of that problem updates `attention`. A new migration backfills them for existing rows from the stored status, checks, attempts and the decision's final action; backfilled rows get attention `none`. Indexes on (account, at, id), (outcome_status, at) and (feature, at).
 
 **API.** `GET /api/llm-calls` takes the filters above with `cursor` and `limit` (up to 100) and returns the page, the next cursor and the total; its old parameters keep working. `GET /api/llm-calls/summary` (same filters) returns the totals, the buckets, the option counts and Top reasons. `GET /api/llm-calls/{id}` adds the status, the explained reasons, the brief as sections, the final-action sentence, and the ids of the newer and older call under the given filters. `GET /api/llm-calls/export.csv`. List and summary answer within 300 ms on a 100,000-call fixture.
 
